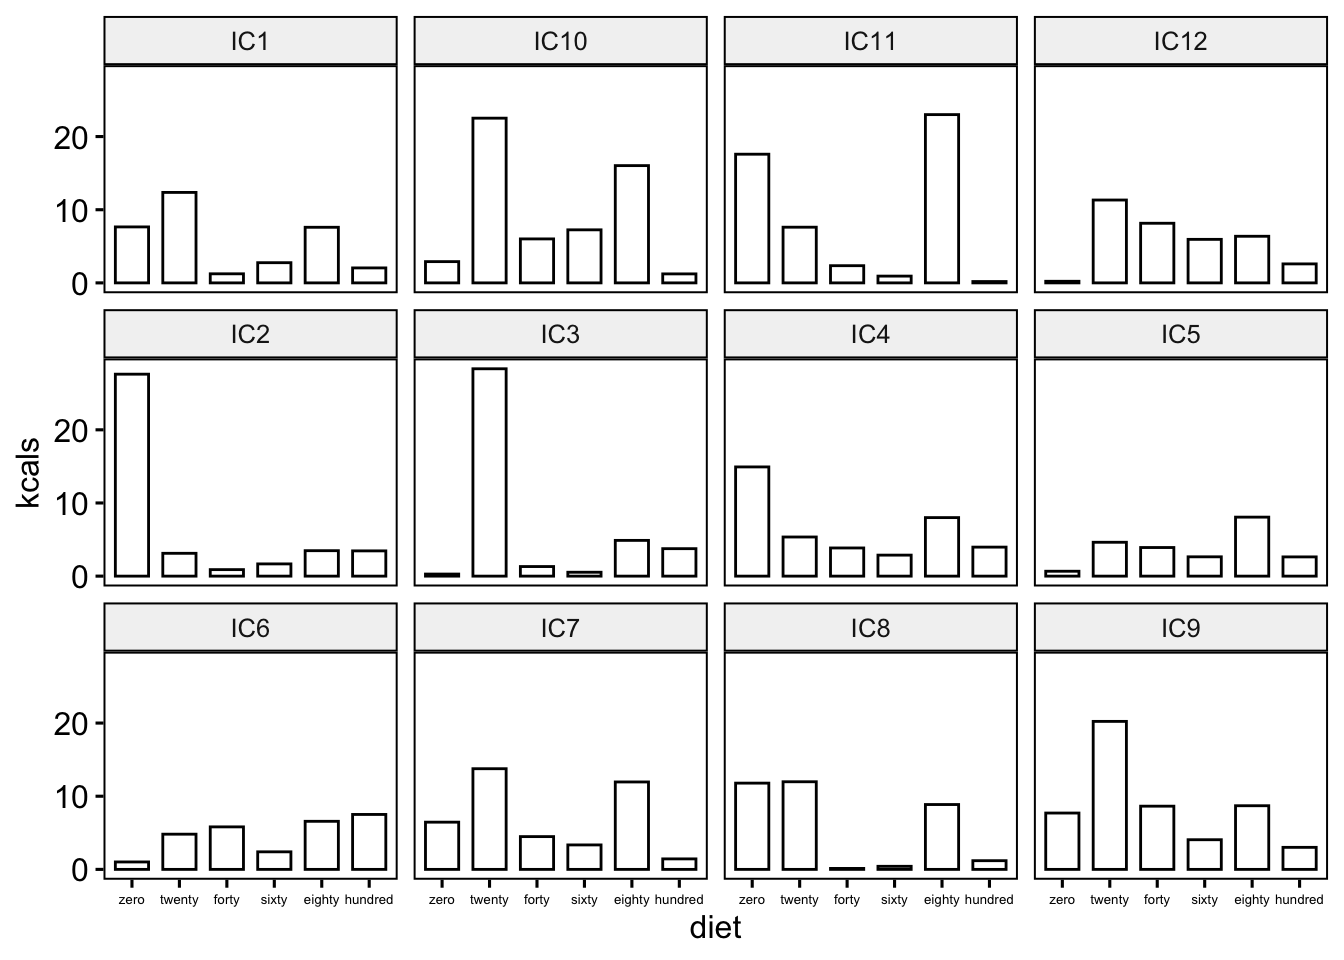
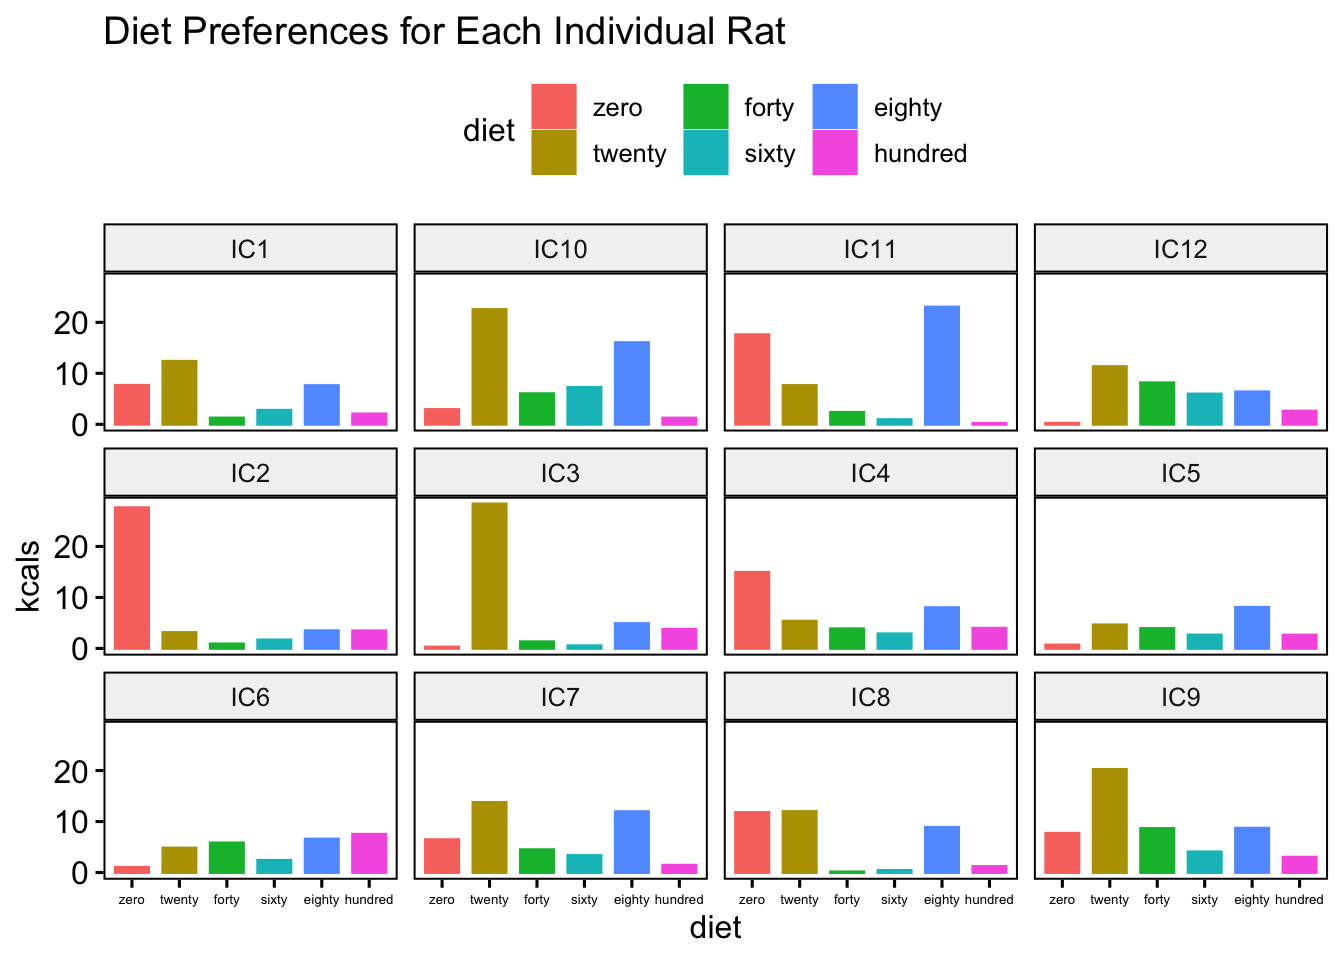
Touched up portfolio 3

diff --git a/docs/p03.html b/docs/p03.html
@@ -440,6 +440,9 @@ variable.</p>
 <pre class="r"><code>avg_kcal_long %&gt;%
 ggbarplot(x = &quot;diet&quot;,
           y = &quot;kcals&quot;,
+          title = &quot;Diet Preferences for Each Individual Rat&quot;,
+          color = &quot;diet&quot;,
+          fill = &quot;diet&quot;,
           facet.by = &quot;real_rat_name&quot;,
           font.xtickslab = 5)</code></pre>
 <p><img src="p03_files/figure-html/kcal-bar-graphs-1.png" width="672" /></p>
